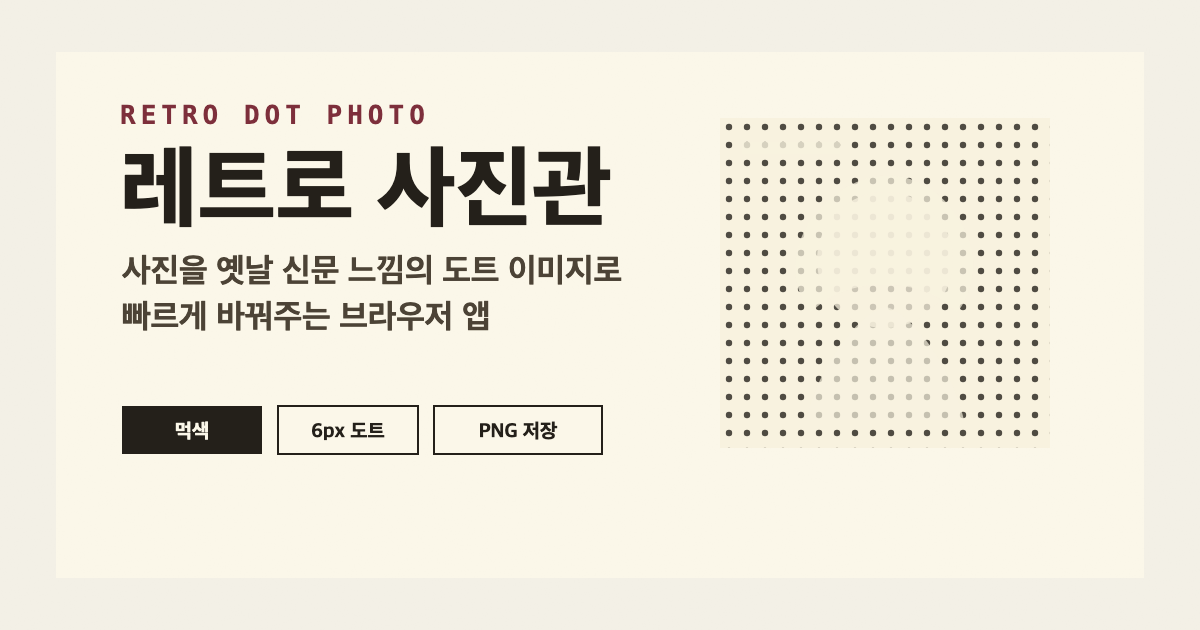
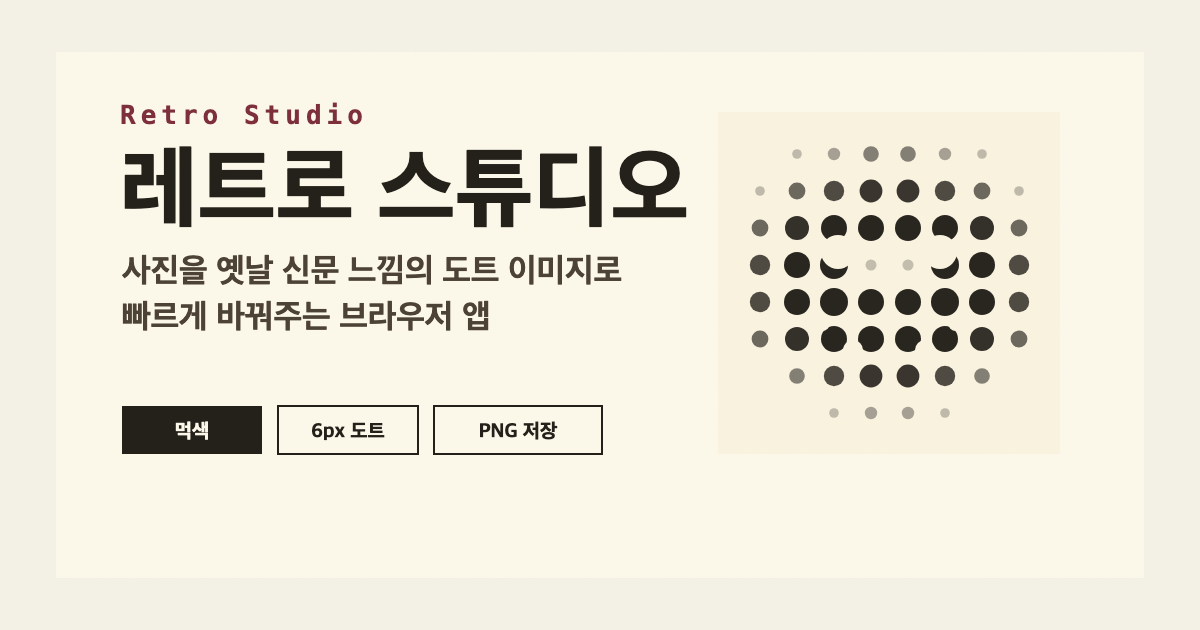
Update share thumbnail branding

Changed region(s): [[0.6167, 0.181, 0.8633, 0.6937], [0.1233, 0.1508, 0.5858, 0.3619]]

diff --git a/app/layout.tsx b/app/layout.tsx
@@ -14,17 +14,17 @@ const geistMono = Geist_Mono({
 
 export const metadata: Metadata = {
     metadataBase: new URL('https://retro-photo-blond.vercel.app'),
-    title: '레트로 사진관',
+    title: '레트로 스튜디오',
     description: '사진을 옛날 신문 느낌의 도트 이미지로 바꿔주는 브라우저 앱.',
     icons: {
         icon: '/favicon.svg',
         shortcut: '/favicon.svg',
     },
     openGraph: {
-        title: '레트로 사진관',
+        title: '레트로 스튜디오',
         description: '사진을 옛날 신문 느낌의 도트 이미지로 바꿔주는 브라우저 앱.',
         url: '/',
-        siteName: '레트로 사진관',
+        siteName: '레트로 스튜디오',
         type: 'website',
         locale: 'ko_KR',
         images: [
@@ -32,13 +32,13 @@ export const metadata: Metadata = {
                 url: '/og-image.png',
                 width: 1200,
                 height: 630,
-                alt: '레트로 사진관 공유 이미지',
+                alt: '레트로 스튜디오 공유 이미지',
             },
         ],
     },
     twitter: {
         card: 'summary_large_image',
-        title: '레트로 사진관',
+        title: '레트로 스튜디오',
         description: '사진을 옛날 신문 느낌의 도트 이미지로 바꿔주는 브라우저 앱.',
         images: ['/og-image.png'],
     },

diff --git a/app/retro-studio.tsx b/app/retro-studio.tsx
@@ -598,7 +598,7 @@ export default function RetroStudio() {
                             <p className="font-mono text-[11px] uppercase tracking-[0.24em] text-[#7d2f3b]">
                                 Retro Studio
                             </p>
-                            <h1 className="mt-1 text-3xl font-black leading-none">레트로 사진관</h1>
+                            <h1 className="mt-1 text-3xl font-black leading-none">레트로 스튜디오</h1>
                         </div>
                     </div>
                     <div className="mt-3">{renderActionButtons(true)}</div>
@@ -613,7 +613,7 @@ export default function RetroStudio() {
                 <aside className="hidden flex-col gap-4 lg:flex lg:sticky lg:top-0 lg:h-screen lg:overflow-y-auto lg:px-7 lg:py-4">
                     <div className="border border-[#24201a] bg-[#fbf7e9] p-5 shadow-[5px_5px_0_#24201a]">
                         <p className="font-mono text-xs uppercase tracking-[0.28em] text-[#7d2f3b]">Retro Studio</p>
-                        <h1 className="mt-3 text-3xl font-black leading-none sm:text-4xl">레트로 사진관</h1>
+                        <h1 className="mt-3 text-3xl font-black leading-none sm:text-4xl">레트로 스튜디오</h1>
                     </div>
 
                     {renderUploadDropzone()}
